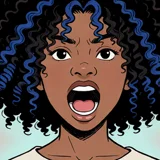
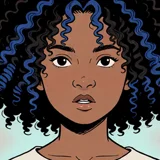
Lumi's redrawn quiet faces: calling, grudging, delighted
Claude-Session: https://claude.ai/code/session_01JTmPYBGE5RJi7qTbK5Qior

diff --git a/src/engine/moods.ts b/src/engine/moods.ts
@@ -20,11 +20,10 @@ const RULES: [who: string, match: RegExp, mood: string][] = [
 ];
 
 /**
- * Portraits held back until they're redrawn, and what shows in their place. Ladi, 23 Nov 2026: in
- * this run Lumi's faces are all closed-mouth and quiet, a small smile at most; barking orders may
- * have a small open mouth. The drafts of "calling" (a shout) and "delighted" (a grin) are too open.
+ * Portraits held back until they're redrawn, and what shows in their place, as "who-mood" names.
+ * Lumi's faces are quiet and closed-mouth in this run (Ladi, 23 Nov 2026); the redraws are in.
  */
-export const FACE_STANDIN: Record<string, string> = { "lumi-calling": "lumi-neutral", "lumi-delighted": "lumi-smug" };
+export const FACE_STANDIN: Record<string, string> = {};
 
 /** The portrait file's name for a line ("lumi-smug"), or null if the speaker has none. */
 export function faceOf(who: string, text: string, mood?: string): string | null {

diff --git a/tests/moods.test.ts b/tests/moods.test.ts
@@ -13,9 +13,7 @@ describe("portrait moods", () => {
     expect(moodOf("Hesta", "Now, Rook.")).toBe("neutral");
     expect(moodOf("Hesta", "Clean.", "firm")).toBe("firm");
     expect(moodOf("Moth", "Here.")).toBeNull();
-    // Lumi stays closed-mouth in this run until the open-mouth drafts are redrawn.
-    expect(faceOf("Lumi", "Dad. North one.")).toBe("lumi-neutral");
-    expect(faceOf("Lumi", "So I'm coming tomorrow.")).toBe("lumi-smug");
+    expect(faceOf("Lumi", "Dad. North one.")).toBe("lumi-calling");
   });
 
   it("has a portrait file for every mood", () => {

diff --git a/CREDITS.md b/CREDITS.md
@@ -11,7 +11,7 @@ subscription-only billing so no Spark was spent. Sources are in the project file
 | sprites/wall.png | krea2_turbo_fp8_scaled (seamless stone) |
 | ui/*.webp (phone stick and buttons) | z_image_turbo_bf16, cropped to a circle with an alpha mask |
 | sprites/brazier.png, sprites/wisp-dawn.png (logo and favicon) | z_image_turbo_bf16, background removed with birefnet_image_background_removal_fp16 |
-| faces/&lt;who&gt;-&lt;mood&gt;.webp (story portraits: Hesta 3 moods, Lumi 6, Rook 4) | First-draft mood faces from the cast art thread (project files `sogni/lanternfall/production/<who>/face-*.png`, 2026-11-23), resized to 160 px WebP |
+| faces/&lt;who&gt;-&lt;mood&gt;.webp (story portraits: Hesta 3 moods, Lumi 6, Rook 4) | Mood faces (Lumi's calling, grudging and delighted redrawn closed-mouth on 2026-11-23) from the cast art thread (project files `sogni/lanternfall/production/<who>/face-*.png`, 2026-11-23), resized to 160 px WebP |
 | models/rook.glb (Rook's body in story runs) | The cast art thread's `production/rook/rook.glb` (image to 3D), 48.5 MB shrunk to 566 KB with `tools/models.sh` (512 px WebP, meshopt, simplified to 2%) |
 
 The sky, cloud sea, fire, embers, light pillar, water and wisps are drawn in code with shaders.
